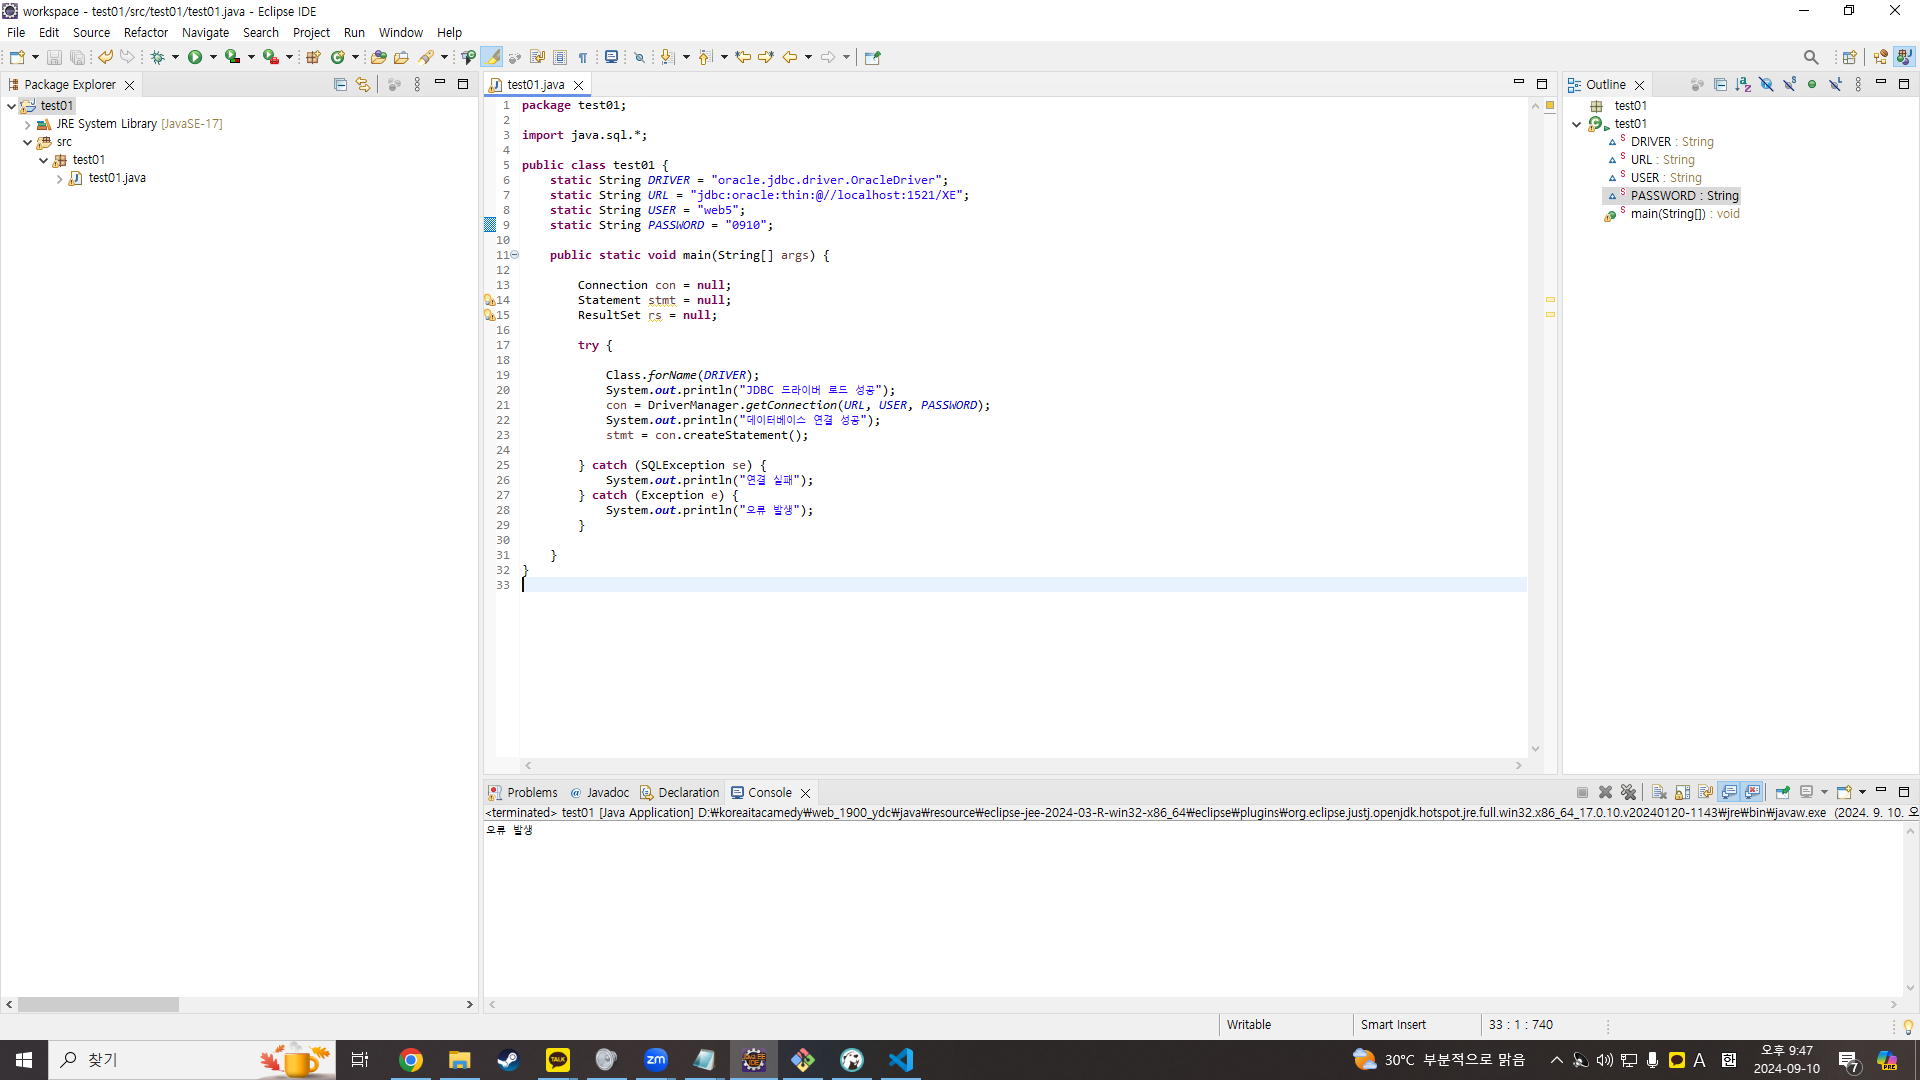
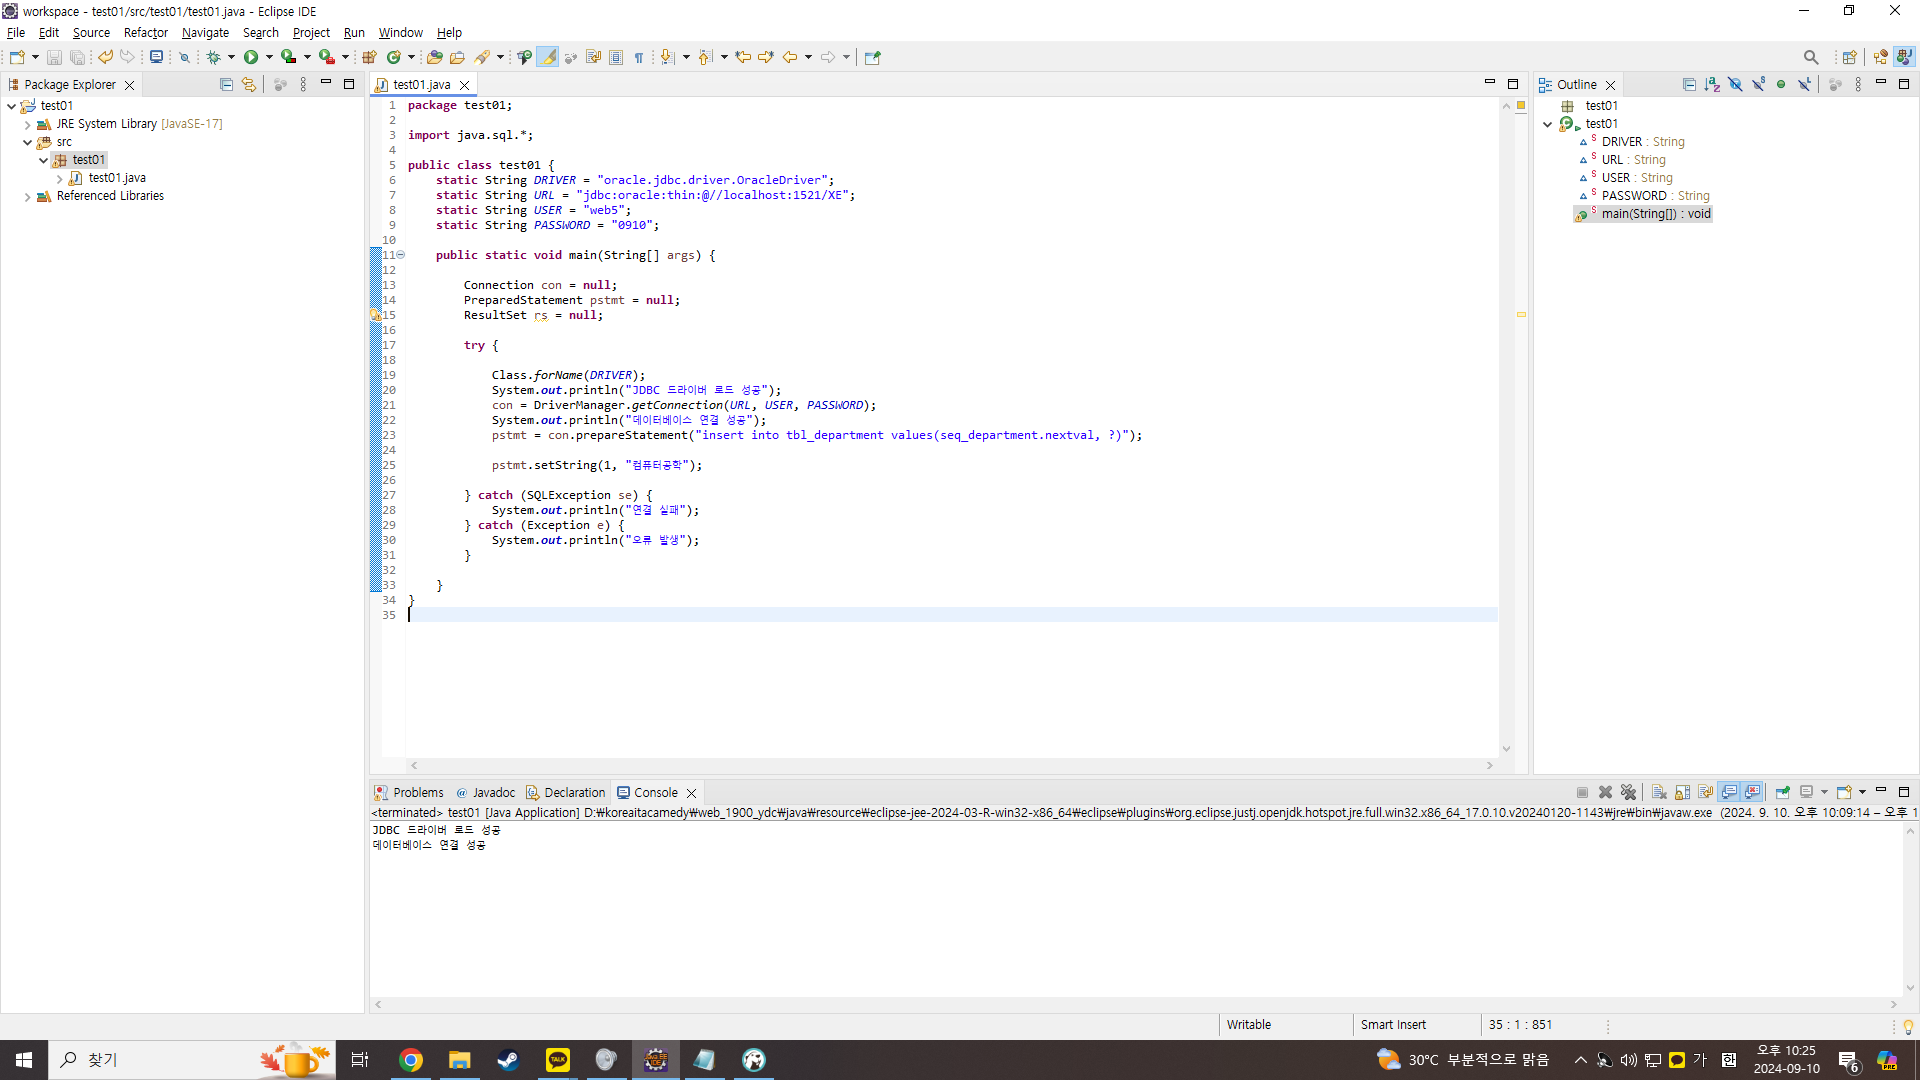
20240910 양대찬 jdbc연결까지

diff --git a/src/test01/test01.java b/src/test01/test01.java
@@ -11,7 +11,7 @@ public class test01 {
 	public static void main(String[] args) {
 		
 		Connection con = null;
-		Statement stmt = null;
+		PreparedStatement pstmt = null;
 		ResultSet rs = null;
 
 		try {
@@ -20,7 +20,9 @@ public class test01 {
 			System.out.println("JDBC 드라이버 로드 성공");
 			con = DriverManager.getConnection(URL, USER, PASSWORD);
 			System.out.println("데이터베이스 연결 성공");
-			stmt = con.createStatement();
+			pstmt = con.prepareStatement("insert into tbl_department values(seq_department.nextval, ?)");
+			
+			pstmt.setString(1, "컴퓨터공학");
 
 		} catch (SQLException se) {
 			System.out.println("연결 실패");
